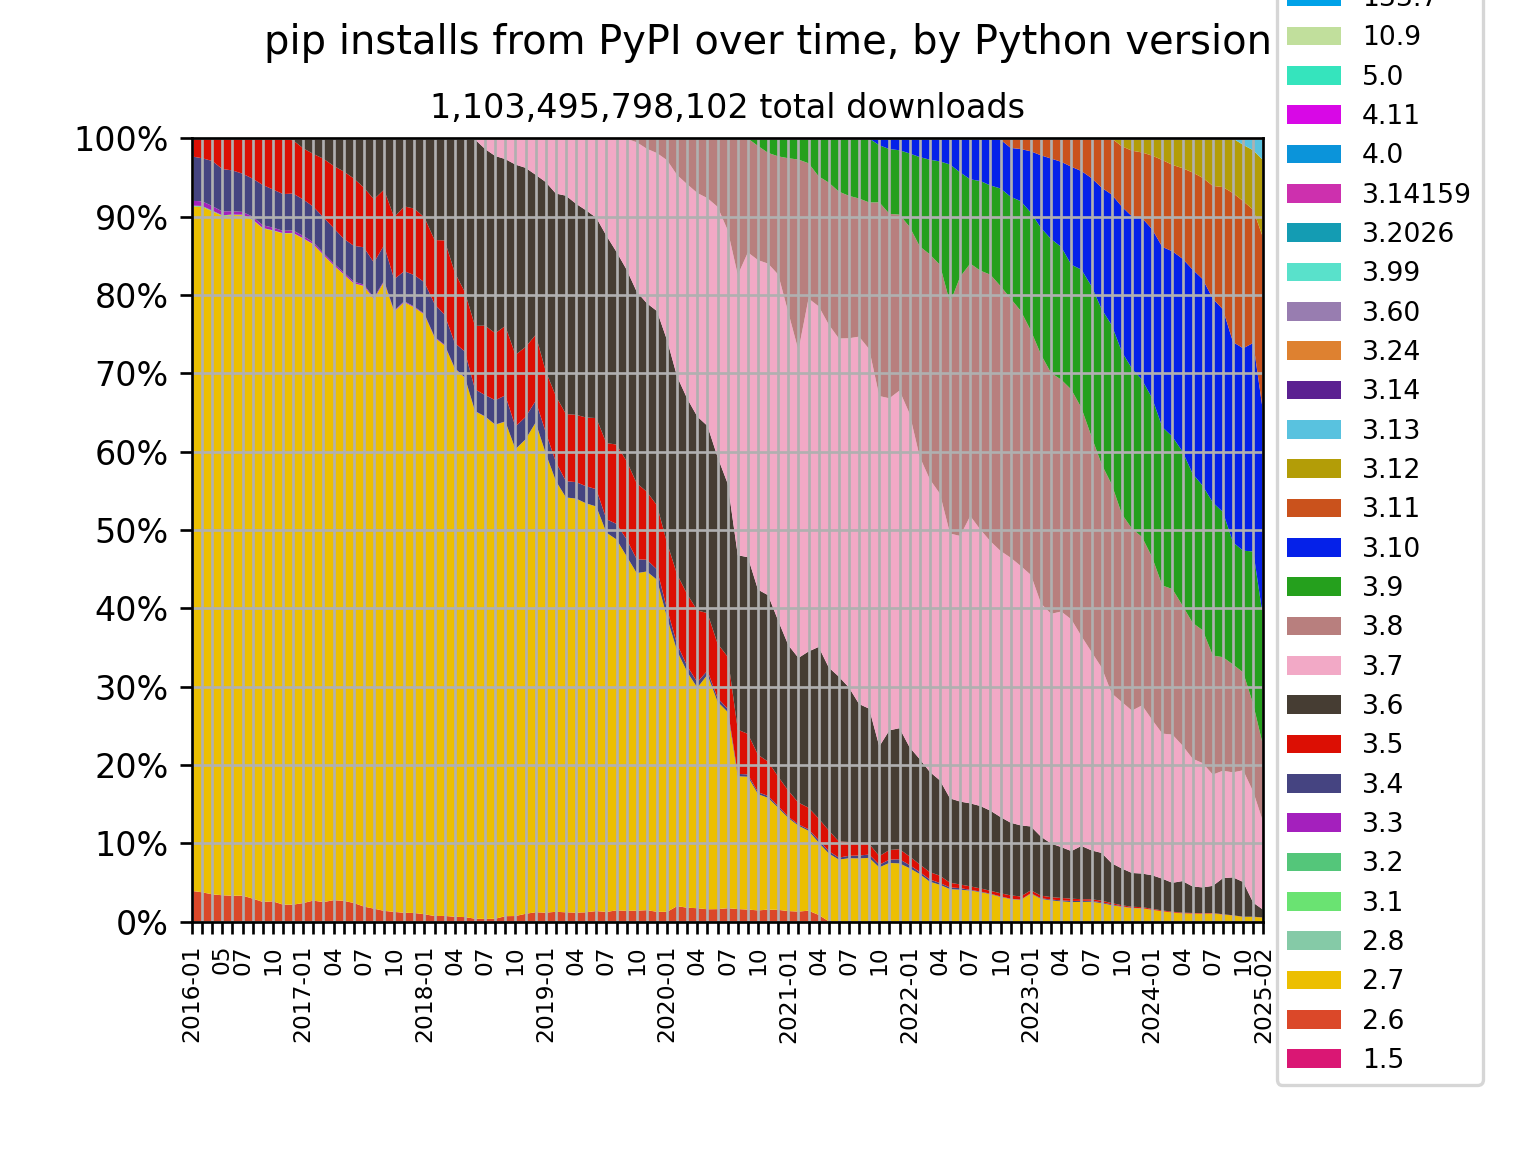
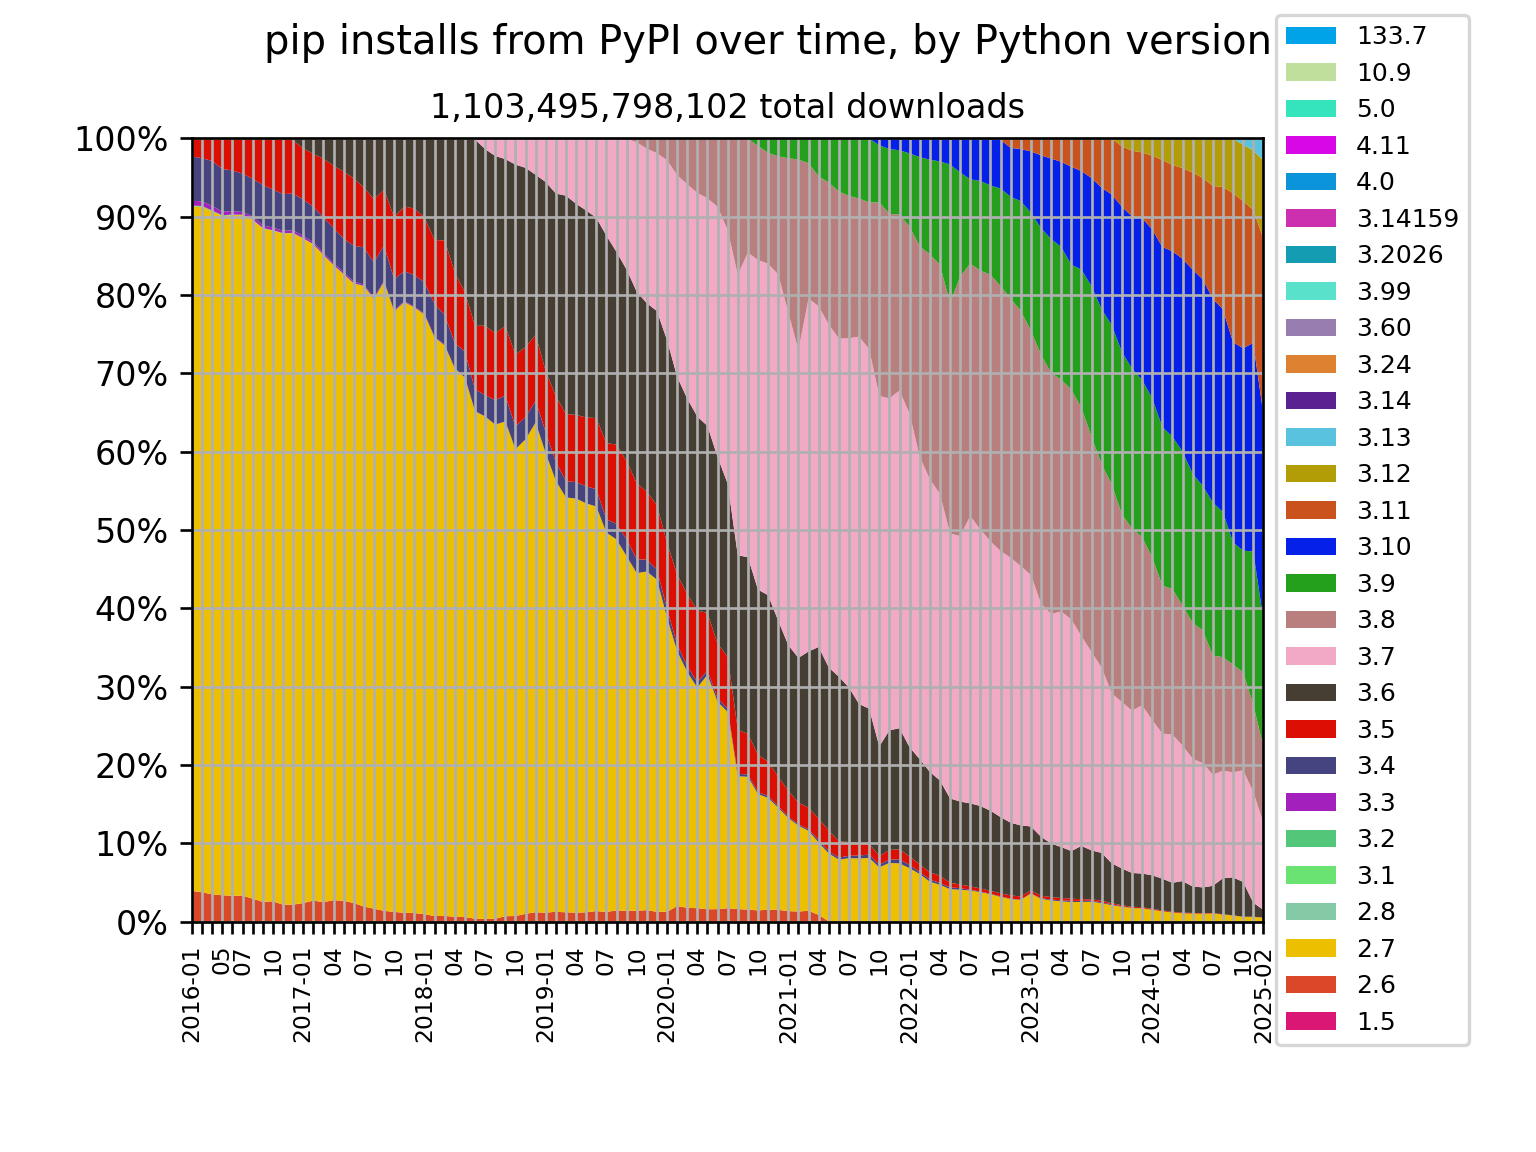
Reduce font of legend so 133.7 fits

Changed region(s): [[0.8125, 0.0, 0.9688, 0.9375]]

diff --git a/jsons2img.py b/jsons2img.py
@@ -129,7 +129,7 @@ def make_chart(
         labels[::-1],
         loc="center left",
         bbox_to_anchor=(1, 0.5),
-        fontsize=8,
+        fontsize=7.5,
     )
 
     if project_name:
